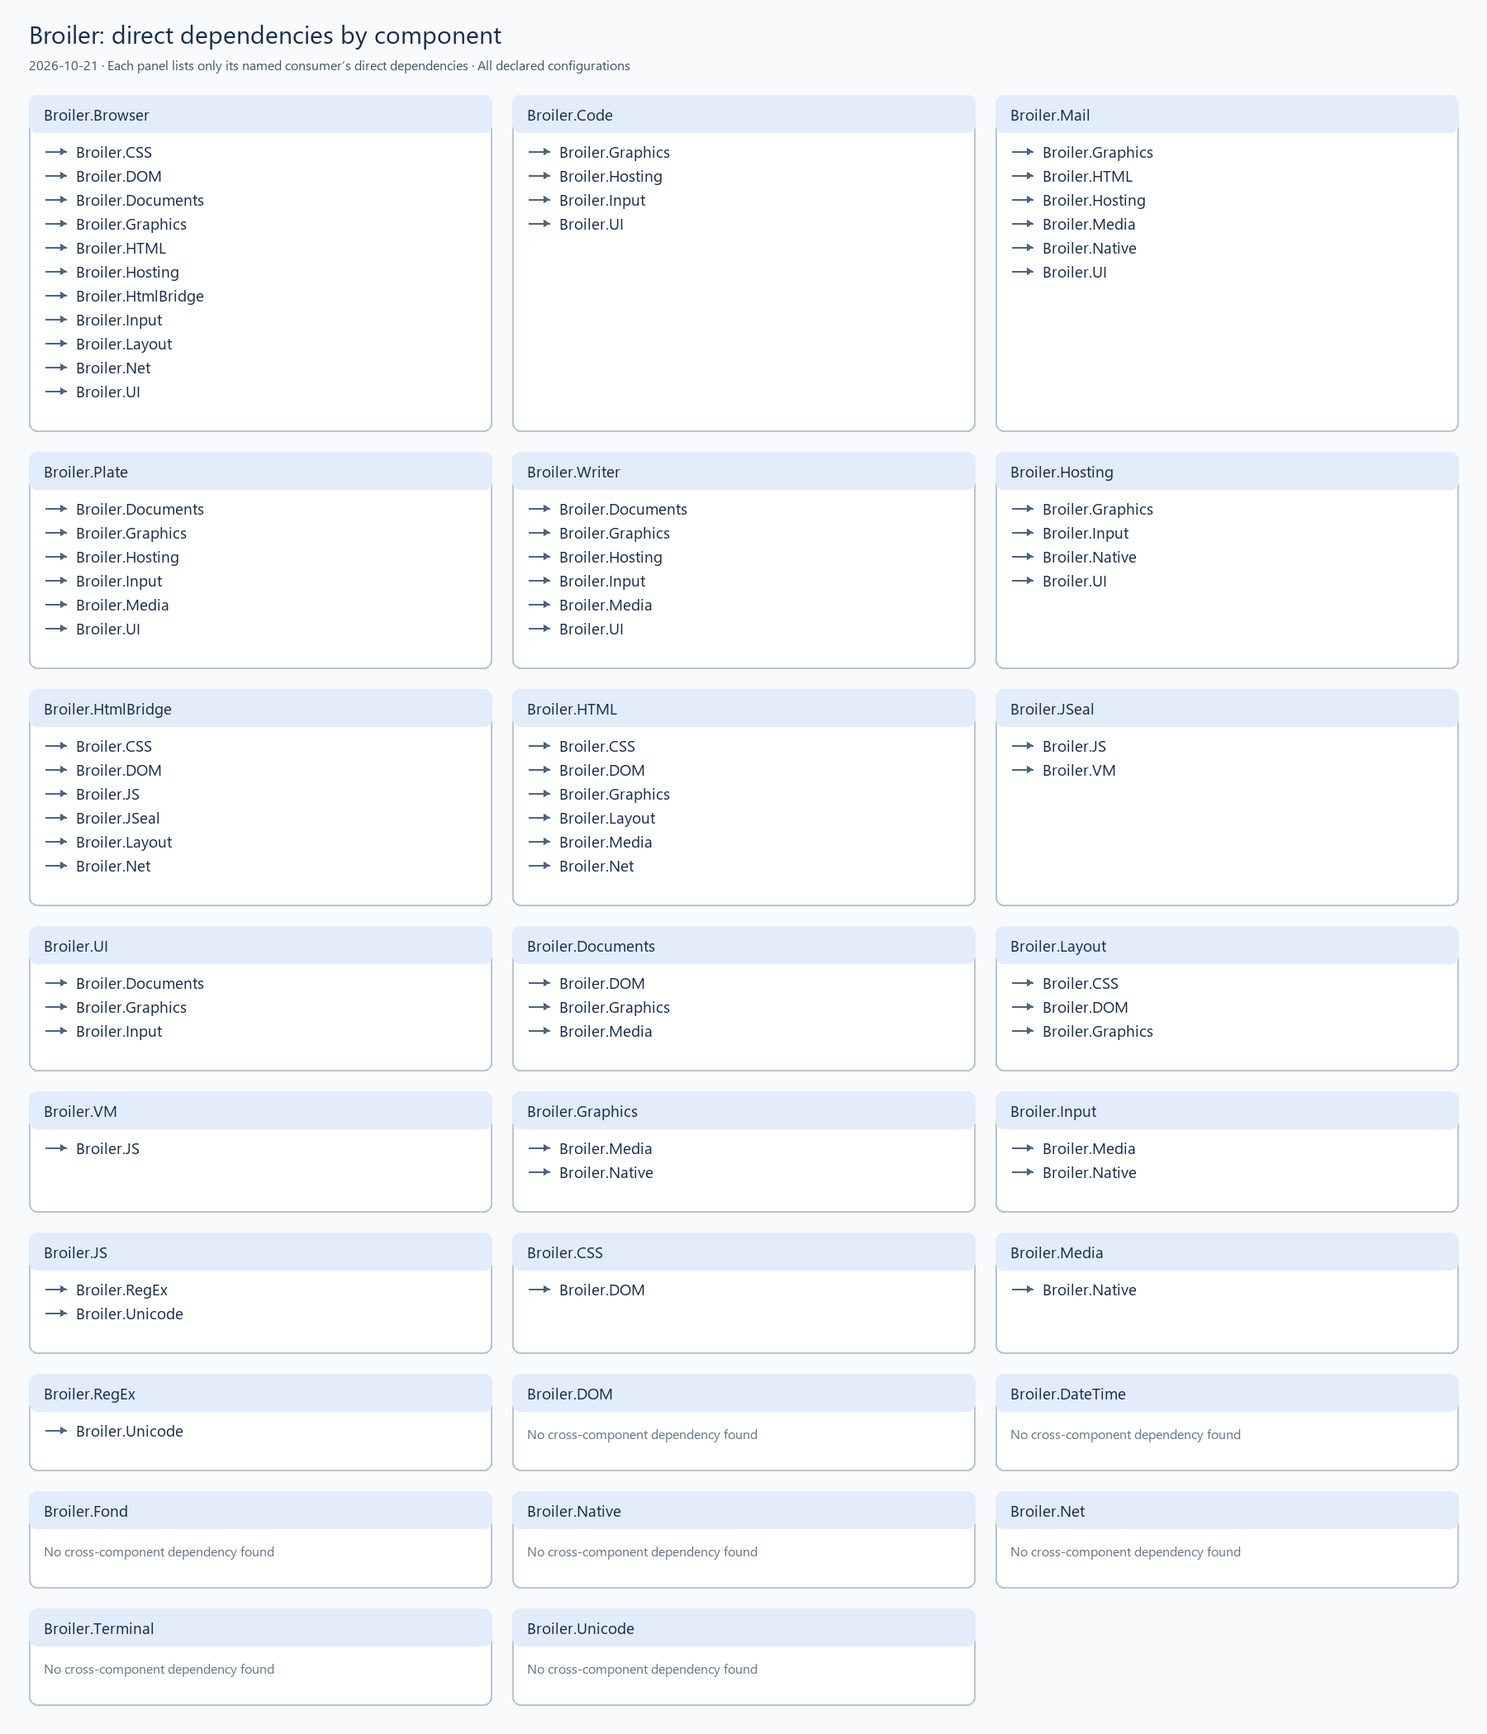
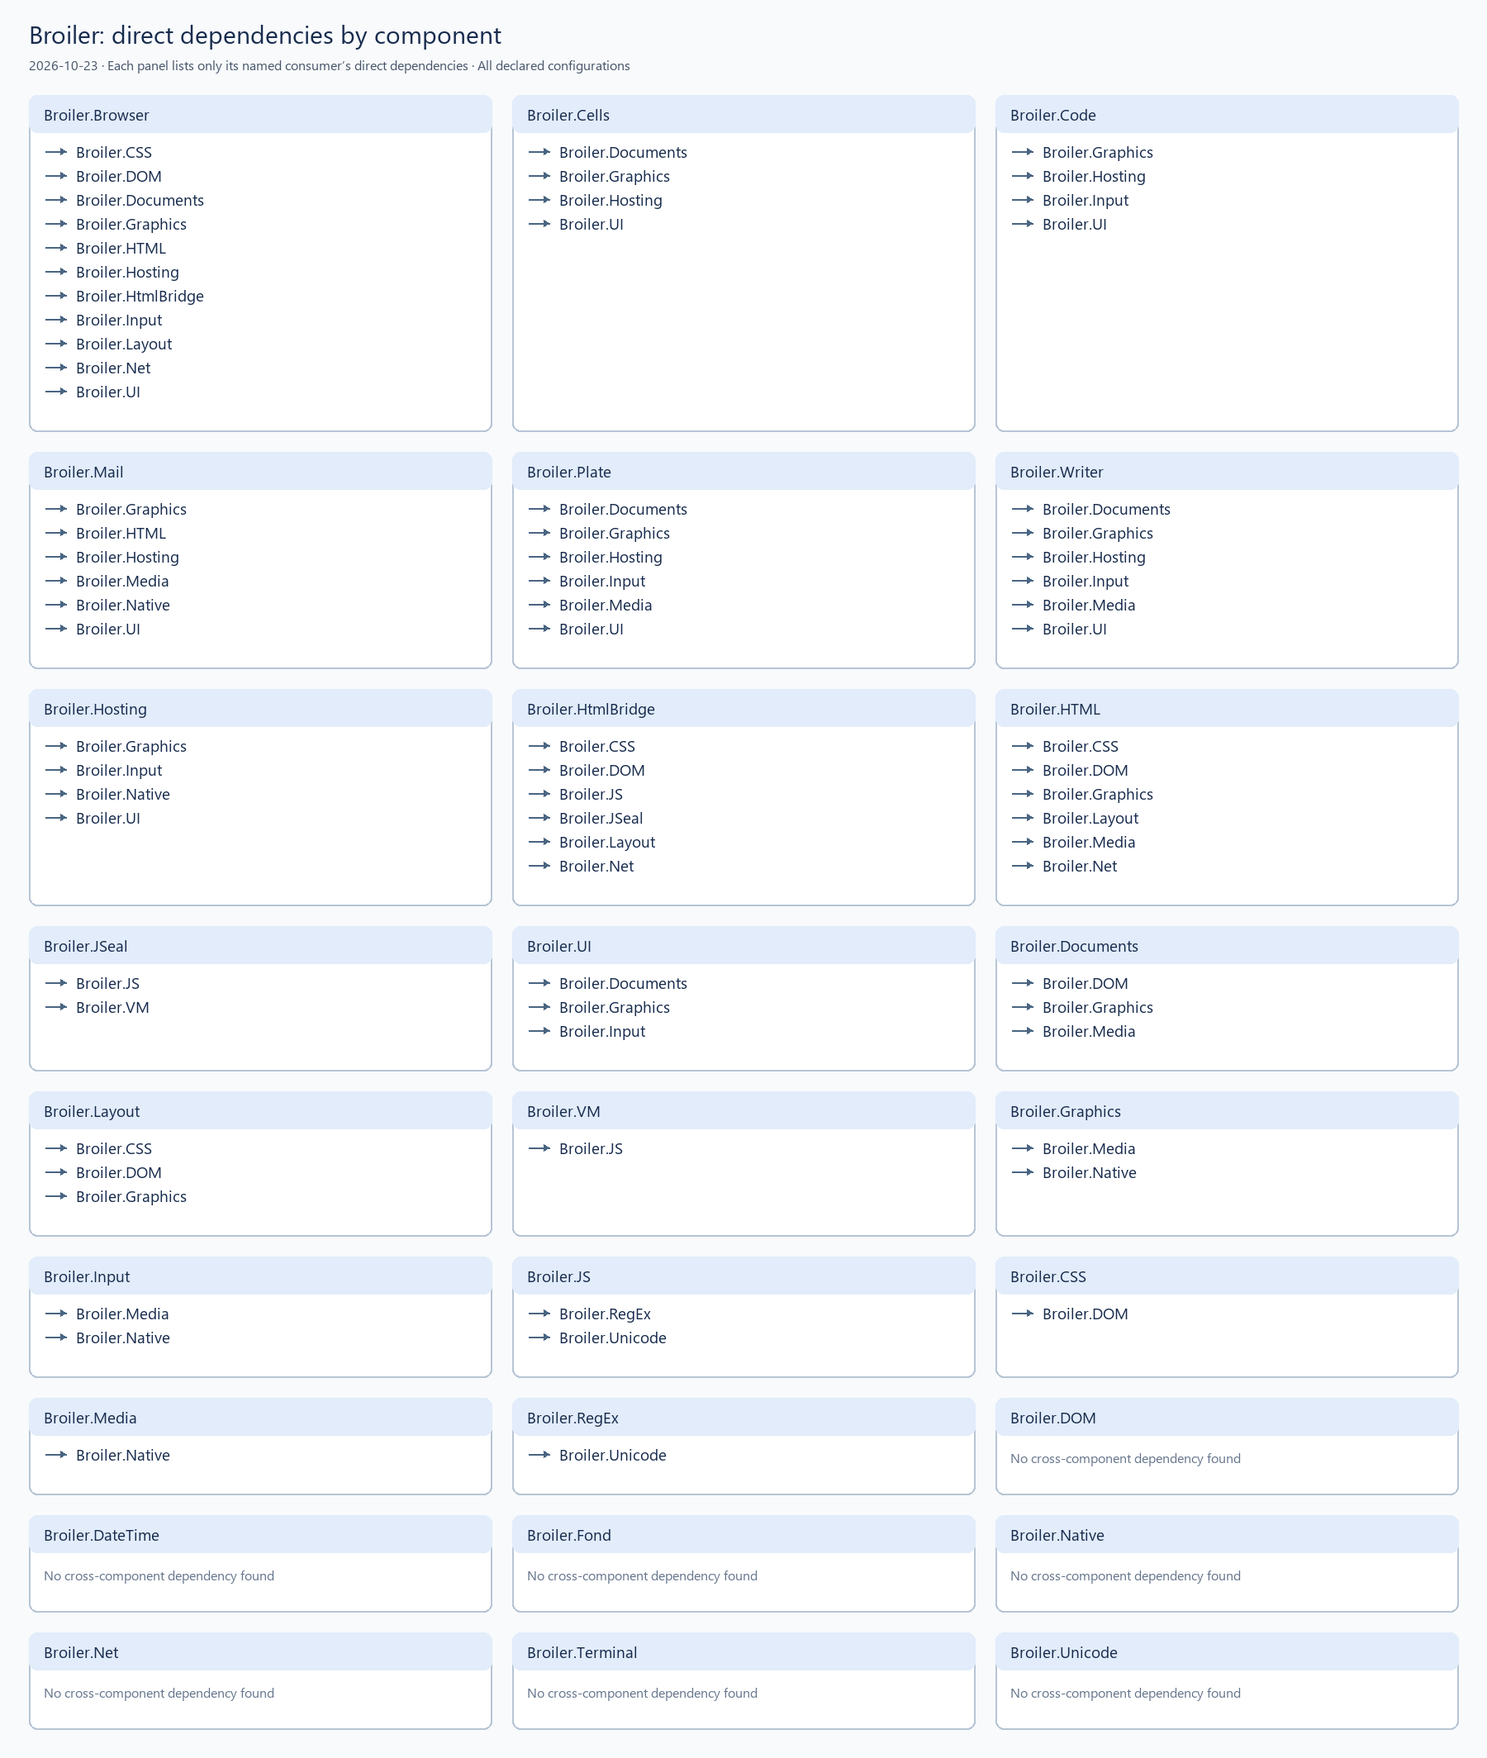
Updates by gemini 3.8 and opus 5.5

diff --git a/profile/docs/component-map.md b/profile/docs/component-map.md
@@ -2,7 +2,7 @@
 
 [← Back to Broiler Platform](https://github.com/Broiler-Platform)
 
-Updated from the aggregate checkout on **2026-10-21**. The aggregate pins 26 component repositories as Git submodules and also owns integration tools, tests and BOSS. It is not itself a node here.
+Updated from the aggregate checkout on **2026-10-23**. The aggregate pins 27 component repositories as Git submodules and also owns integration tools, tests and BOSS. It is not itself a node here.
 
 ## Reading the graph
 
@@ -17,101 +17,106 @@ The [machine-readable snapshot](component-map.json) records source commits, trac
 ```mermaid
 graph TD
     C0["Broiler.Browser"]
-    C2["Broiler.Code"]
-    C15["Broiler.Mail"]
-    C19["Broiler.Plate"]
-    C25["Broiler.Writer"]
-    C9["Broiler.Hosting"]
-    C10["Broiler.HtmlBridge"]
-    C8["Broiler.HTML"]
-    C13["Broiler.JSeal"]
-    C22["Broiler.UI"]
-    C5["Broiler.Documents"]
-    C14["Broiler.Layout"]
-    C24["Broiler.VM"]
-    C7["Broiler.Graphics"]
-    C11["Broiler.Input"]
-    C12["Broiler.JS"]
+    C2["Broiler.Cells"]
+    C3["Broiler.Code"]
+    C16["Broiler.Mail"]
+    C20["Broiler.Plate"]
+    C26["Broiler.Writer"]
+    C10["Broiler.Hosting"]
+    C11["Broiler.HtmlBridge"]
+    C9["Broiler.HTML"]
+    C14["Broiler.JSeal"]
+    C23["Broiler.UI"]
+    C6["Broiler.Documents"]
+    C15["Broiler.Layout"]
+    C25["Broiler.VM"]
+    C8["Broiler.Graphics"]
+    C12["Broiler.Input"]
+    C13["Broiler.JS"]
     C1["Broiler.CSS"]
-    C16["Broiler.Media"]
-    C20["Broiler.RegEx"]
-    C3["Broiler.DOM"]
-    C4["Broiler.DateTime"]
-    C6["Broiler.Fond"]
-    C17["Broiler.Native"]
-    C18["Broiler.Net"]
-    C21["Broiler.Terminal"]
-    C23["Broiler.Unicode"]
+    C17["Broiler.Media"]
+    C21["Broiler.RegEx"]
+    C4["Broiler.DOM"]
+    C5["Broiler.DateTime"]
+    C7["Broiler.Fond"]
+    C18["Broiler.Native"]
+    C19["Broiler.Net"]
+    C22["Broiler.Terminal"]
+    C24["Broiler.Unicode"]
     C0 --> C1
-    C0 --> C3
-    C0 --> C5
-    C0 --> C7
+    C0 --> C4
+    C0 --> C6
     C0 --> C8
     C0 --> C9
     C0 --> C10
     C0 --> C11
-    C0 --> C14
-    C0 --> C18
-    C0 --> C22
-    C2 --> C7
-    C2 --> C9
-    C2 --> C11
-    C2 --> C22
-    C15 --> C7
-    C15 --> C8
-    C15 --> C9
-    C15 --> C16
-    C15 --> C17
-    C15 --> C22
-    C19 --> C5
-    C19 --> C7
-    C19 --> C9
-    C19 --> C11
-    C19 --> C16
-    C19 --> C22
-    C25 --> C5
-    C25 --> C7
-    C25 --> C9
-    C25 --> C11
-    C25 --> C16
-    C25 --> C22
-    C9 --> C7
-    C9 --> C11
-    C9 --> C17
-    C9 --> C22
-    C10 --> C1
-    C10 --> C3
-    C10 --> C12
-    C10 --> C13
-    C10 --> C14
-    C10 --> C18
-    C8 --> C1
-    C8 --> C3
-    C8 --> C7
-    C8 --> C14
-    C8 --> C16
-    C8 --> C18
-    C13 --> C12
-    C13 --> C24
-    C22 --> C5
-    C22 --> C7
-    C22 --> C11
-    C5 --> C3
-    C5 --> C7
-    C5 --> C16
-    C14 --> C1
-    C14 --> C3
-    C14 --> C7
-    C24 --> C12
-    C7 --> C16
-    C7 --> C17
-    C11 --> C16
-    C11 --> C17
-    C12 --> C20
-    C12 --> C23
-    C1 --> C3
+    C0 --> C12
+    C0 --> C15
+    C0 --> C19
+    C0 --> C23
+    C2 --> C6
+    C2 --> C8
+    C2 --> C10
+    C2 --> C23
+    C3 --> C8
+    C3 --> C10
+    C3 --> C12
+    C3 --> C23
+    C16 --> C8
+    C16 --> C9
+    C16 --> C10
     C16 --> C17
+    C16 --> C18
+    C16 --> C23
+    C20 --> C6
+    C20 --> C8
+    C20 --> C10
+    C20 --> C12
+    C20 --> C17
     C20 --> C23
+    C26 --> C6
+    C26 --> C8
+    C26 --> C10
+    C26 --> C12
+    C26 --> C17
+    C26 --> C23
+    C10 --> C8
+    C10 --> C12
+    C10 --> C18
+    C10 --> C23
+    C11 --> C1
+    C11 --> C4
+    C11 --> C13
+    C11 --> C14
+    C11 --> C15
+    C11 --> C19
+    C9 --> C1
+    C9 --> C4
+    C9 --> C8
+    C9 --> C15
+    C9 --> C17
+    C9 --> C19
+    C14 --> C13
+    C14 --> C25
+    C23 --> C6
+    C23 --> C8
+    C23 --> C12
+    C6 --> C4
+    C6 --> C8
+    C6 --> C17
+    C15 --> C1
+    C15 --> C4
+    C15 --> C8
+    C25 --> C13
+    C8 --> C17
+    C8 --> C18
+    C12 --> C17
+    C12 --> C18
+    C13 --> C21
+    C13 --> C24
+    C1 --> C4
+    C17 --> C18
+    C21 --> C24
 ```
 
 ## Dependencies in both directions
@@ -121,19 +126,20 @@ Levels are computed as the longest dependency path to a leaf. An isolated node m
 | Level | Component | Depends on | Used by |
 |---:|---|---|---|
 | 6 | **Broiler.Browser** | `Broiler.CSS`, `Broiler.DOM`, `Broiler.Documents`, `Broiler.Graphics`, `Broiler.HTML`, `Broiler.Hosting`, `Broiler.HtmlBridge`, `Broiler.Input`, `Broiler.Layout`, `Broiler.Net`, `Broiler.UI` | — |
+| 6 | **Broiler.Cells** | `Broiler.Documents`, `Broiler.Graphics`, `Broiler.Hosting`, `Broiler.UI` | — |
 | 6 | **Broiler.Code** | `Broiler.Graphics`, `Broiler.Hosting`, `Broiler.Input`, `Broiler.UI` | — |
 | 6 | **Broiler.Mail** | `Broiler.Graphics`, `Broiler.HTML`, `Broiler.Hosting`, `Broiler.Media`, `Broiler.Native`, `Broiler.UI` | — |
 | 6 | **Broiler.Plate** | `Broiler.Documents`, `Broiler.Graphics`, `Broiler.Hosting`, `Broiler.Input`, `Broiler.Media`, `Broiler.UI` | — |
 | 6 | **Broiler.Writer** | `Broiler.Documents`, `Broiler.Graphics`, `Broiler.Hosting`, `Broiler.Input`, `Broiler.Media`, `Broiler.UI` | — |
-| 5 | **Broiler.Hosting** | `Broiler.Graphics`, `Broiler.Input`, `Broiler.Native`, `Broiler.UI` | `Broiler.Browser`, `Broiler.Code`, `Broiler.Mail`, `Broiler.Plate`, `Broiler.Writer` |
+| 5 | **Broiler.Hosting** | `Broiler.Graphics`, `Broiler.Input`, `Broiler.Native`, `Broiler.UI` | `Broiler.Browser`, `Broiler.Cells`, `Broiler.Code`, `Broiler.Mail`, `Broiler.Plate`, `Broiler.Writer` |
 | 5 | **Broiler.HtmlBridge** | `Broiler.CSS`, `Broiler.DOM`, `Broiler.JS`, `Broiler.JSeal`, `Broiler.Layout`, `Broiler.Net` | `Broiler.Browser` |
 | 4 | **Broiler.HTML** | `Broiler.CSS`, `Broiler.DOM`, `Broiler.Graphics`, `Broiler.Layout`, `Broiler.Media`, `Broiler.Net` | `Broiler.Browser`, `Broiler.Mail` |
 | 4 | **Broiler.JSeal** | `Broiler.JS`, `Broiler.VM` | `Broiler.HtmlBridge` |
-| 4 | **Broiler.UI** | `Broiler.Documents`, `Broiler.Graphics`, `Broiler.Input` | `Broiler.Browser`, `Broiler.Code`, `Broiler.Hosting`, `Broiler.Mail`, `Broiler.Plate`, `Broiler.Writer` |
-| 3 | **Broiler.Documents** | `Broiler.DOM`, `Broiler.Graphics`, `Broiler.Media` | `Broiler.Browser`, `Broiler.Plate`, `Broiler.UI`, `Broiler.Writer` |
+| 4 | **Broiler.UI** | `Broiler.Documents`, `Broiler.Graphics`, `Broiler.Input` | `Broiler.Browser`, `Broiler.Cells`, `Broiler.Code`, `Broiler.Hosting`, `Broiler.Mail`, `Broiler.Plate`, `Broiler.Writer` |
+| 3 | **Broiler.Documents** | `Broiler.DOM`, `Broiler.Graphics`, `Broiler.Media` | `Broiler.Browser`, `Broiler.Cells`, `Broiler.Plate`, `Broiler.UI`, `Broiler.Writer` |
 | 3 | **Broiler.Layout** | `Broiler.CSS`, `Broiler.DOM`, `Broiler.Graphics` | `Broiler.Browser`, `Broiler.HTML`, `Broiler.HtmlBridge` |
 | 3 | **Broiler.VM** | `Broiler.JS` | `Broiler.JSeal` |
-| 2 | **Broiler.Graphics** | `Broiler.Media`, `Broiler.Native` | `Broiler.Browser`, `Broiler.Code`, `Broiler.Documents`, `Broiler.HTML`, `Broiler.Hosting`, `Broiler.Layout`, `Broiler.Mail`, `Broiler.Plate`, `Broiler.UI`, `Broiler.Writer` |
+| 2 | **Broiler.Graphics** | `Broiler.Media`, `Broiler.Native` | `Broiler.Browser`, `Broiler.Cells`, `Broiler.Code`, `Broiler.Documents`, `Broiler.HTML`, `Broiler.Hosting`, `Broiler.Layout`, `Broiler.Mail`, `Broiler.Plate`, `Broiler.UI`, `Broiler.Writer` |
 | 2 | **Broiler.Input** | `Broiler.Media`, `Broiler.Native` | `Broiler.Browser`, `Broiler.Code`, `Broiler.Hosting`, `Broiler.Plate`, `Broiler.UI`, `Broiler.Writer` |
 | 2 | **Broiler.JS** | `Broiler.RegEx`, `Broiler.Unicode` | `Broiler.HtmlBridge`, `Broiler.JSeal`, `Broiler.VM` |
 | 1 | **Broiler.CSS** | `Broiler.DOM` | `Broiler.Browser`, `Broiler.HTML`, `Broiler.HtmlBridge`, `Broiler.Layout` |
@@ -153,15 +159,15 @@ Counts are distinct component edges, not package or assembly counts.
 
 | Component | Consumers (fan-in) | Dependencies (fan-out) |
 |---|---:|---:|
-| Broiler.Graphics | 10 | 2 |
+| Broiler.Graphics | 11 | 2 |
 | Broiler.Media | 7 | 1 |
+| Broiler.UI | 7 | 3 |
 | Broiler.DOM | 6 | 0 |
+| Broiler.Hosting | 6 | 4 |
 | Broiler.Input | 6 | 2 |
-| Broiler.UI | 6 | 3 |
-| Broiler.Hosting | 5 | 4 |
+| Broiler.Documents | 5 | 3 |
 | Broiler.Native | 5 | 0 |
 | Broiler.CSS | 4 | 1 |
-| Broiler.Documents | 4 | 3 |
 | Broiler.JS | 3 | 2 |
 | Broiler.Layout | 3 | 3 |
 | Broiler.Net | 3 | 0 |
@@ -172,6 +178,7 @@ Counts are distinct component edges, not package or assembly counts.
 | Broiler.RegEx | 1 | 1 |
 | Broiler.VM | 1 | 1 |
 | Broiler.Browser | 0 | 11 |
+| Broiler.Cells | 0 | 4 |
 | Broiler.Code | 0 | 4 |
 | Broiler.DateTime | 0 | 0 |
 | Broiler.Fond | 0 | 0 |

diff --git a/profile/README.md b/profile/README.md
@@ -27,21 +27,21 @@ Broiler is **not** a wrapper around an existing browser or office stack. It is a
 |-----------|--------|
 | Standards verification | Test262, WPT and reftest tooling; current figures require revision-linked evidence ([status](https://github.com/Broiler-Platform/.github/blob/main/profile/docs/status.md)) |
 | Supported Platforms | Windows, Linux, Android, WebAssembly |
-| Applications | Browser, Writer, Code, Plate, Mail |
+| Applications | Browser, Writer, Code, Plate, Mail, Cells |
 | Reference Deployment | BOSS |
 | Document Formats | RTF, HTML, Markdown, DOCX, ODT, CSV, PDF *(preview subset)* |
 | Native Compilation | Writer *(win-x64, linux-x64)* and Plate *(win-x64)* publish paths; Mail *(win-x64, win-arm64)* validation packaging uses **NativeAOT** |
-| Repository Layout | 26 component submodules — 5 primary applications, shared libraries and projects under development ([Component Map](https://github.com/Broiler-Platform/.github/blob/main/profile/docs/component-map.md)) |
+| Repository Layout | 27 component submodules — 6 applications, shared libraries and projects under development ([Component Map](https://github.com/Broiler-Platform/.github/blob/main/profile/docs/component-map.md)) |
 
 ---
 
 ## Architecture at a Glance
 
-The aggregate checkout pins component repositories as Git submodules and owns integration tooling, tests and BOSS. Components consume one another through NuGet packages, with project references within each repository. The generated map contains **26 components and 70 declared dependency edges**, including optional and conditional paths, as of **21 October 2026**.
+The aggregate checkout pins component repositories as Git submodules and owns integration tooling, tests and BOSS. Components consume one another through NuGet packages, with project references within each repository. The generated map contains **27 components and 74 declared dependency edges**, including optional and conditional paths, as of **23 October 2026**.
 
 ```mermaid
 flowchart TD
-    Apps[Browser / Writer / Code / Plate / Mail] --> Hosting[Hosting and UI]
+    Apps[Browser / Writer / Code / Plate / Mail / Cells] --> Hosting[Hosting and UI]
     Apps --> Web[HtmlBridge / HTML / CSS / DOM / Layout]
     Hosting --> Documents[Documents and pagination]
     Web --> Engines[JSEAL providers: Broiler.JS and Broiler.VM]
@@ -65,6 +65,7 @@ The full wiring — who depends on whom, in both directions — is in the
 | **Broiler Code** | Code editor with C# language services and a human-review workspace | Windows, Linux |
 | **Broiler Plate** | Read-only viewer — the smallest honest demonstration of what the platform can already read | Windows |
 | **Broiler Mail** | Mail client — Single-account reader with SMTP composition and HTML preview work; provider acceptance and renderer isolation remain open | Windows, Android; Linux placeholder |
+| **Broiler Cells** | Minimal spreadsheet — 100 × 100 grid with A1-style addresses, in-place editing, row/column selection and resizing, CSV open/save | Windows |
 | **BOSS** | Broiler Office Standalone Server — hosts the WebAssembly Writer via ASP.NET Core | self-hosted |
 
 ---
@@ -115,6 +116,7 @@ Each application releases on its own schedule, from its own repository:
 | **Broiler Writer** | [Releases](https://github.com/Broiler-Platform/Broiler.Writer/releases) | `win-x64` and `linux-x64`, self-contained *(NativeAOT)* or framework-dependent · Android `.apk` / `.aab` |
 | **Broiler Plate** | [Releases](https://github.com/Broiler-Platform/Broiler.Plate/releases) | `win-x64` *(NativeAOT)* |
 | **Broiler Code** | build from [source](https://github.com/Broiler-Platform/Broiler.Code) | no release yet |
+| **Broiler Cells** | build from [source](https://github.com/Broiler-Platform/Broiler.Cells) | no release yet |
 | **Broiler Mail** | [Source and workflows](https://github.com/Broiler-Platform/Broiler.Mail) | Windows x64/ARM64 and Android validation packaging; unsigned builds and draft releases |
 
 Then:

diff --git a/profile/docs/architecture.md b/profile/docs/architecture.md
@@ -2,13 +2,13 @@
 
 [← Back to Broiler Platform](https://github.com/Broiler-Platform)
 
-Updated against the aggregate checkout on **21 October 2026**.
+Updated against the aggregate checkout on **23 October 2026**.
 
 ## Repository and build model
 
-The [Broiler aggregate](https://github.com/Broiler-Platform/Broiler) pins 26 component repositories as Git submodules. It also owns cross-component integration, validation tools and the Broiler Office Standalone Server (BOSS). Component repositories own their application or library code, solutions, tests and workflows.
+The [Broiler aggregate](https://github.com/Broiler-Platform/Broiler) pins 27 component repositories as Git submodules. It also owns cross-component integration, validation tools and the Broiler Office Standalone Server (BOSS). Component repositories own their application or library code, solutions, tests and workflows.
 
-Cross-component product dependencies in the current scan use NuGet package references; projects within a component use project references. The [Component Map](component-map.md) is generated from component-owned tracked product project files and includes optional and conditional references. Its 70 component edges form an acyclic graph. This declaration graph does not establish that every package has been published or that every configuration has passed validation.
+Cross-component product dependencies in the current scan use NuGet package references; projects within a component use project references. The [Component Map](component-map.md) is generated from component-owned tracked product project files and includes optional and conditional references. Its 74 component edges form an acyclic graph. This declaration graph does not establish that every package has been published or that every configuration has passed validation.
 
 ## Shared stacks
 
@@ -22,7 +22,7 @@ flowchart TD
     Seam --> VM[Broiler.VM provider: in progress and unaccepted]
     Bridge --> JS
     HTML --> Layout[CSS / DOM / Layout]
-    Writer[Writer / Plate] --> UI[UI and Documents]
+    Writer[Writer / Plate / Cells] --> UI[UI and Documents]
     Code[Code] --> UI
     Browser --> UI
     UI --> Base[Graphics / Input / Media / Native]
@@ -44,6 +44,7 @@ Broiler.Hosting provides shared operating-system integration, including windowin
 | Code | Head | Head | — | — |
 | Plate | Head | — | — | — |
 | Mail | Head | Placeholder; no interactive window | Head | — |
+| Cells | Head | — | — | — |
 
 A head's presence is implementation evidence, not platform acceptance. Android physical-device and accessibility validation remains component-specific. Broiler.Fond is an additional application under development, with a finance kernel and synthetic protocol fixtures; it is not a supported banking client.
 

diff --git a/profile/docs/status.md b/profile/docs/status.md
@@ -2,14 +2,14 @@
 
 [← Back to Broiler Platform](https://github.com/Broiler-Platform)
 
-Broiler is under active development and is **not yet intended for production use**. This summary was reconciled with the aggregate checkout on **21 October 2026**; implementation, test evidence and release acceptance are separate claims.
+Broiler is under active development and is **not yet intended for production use**. This summary was reconciled with the aggregate checkout on **23 October 2026**; implementation, test evidence and release acceptance are separate claims.
 
 ## Platform snapshot
 
 | Area | Current repository evidence |
 |---|---|
-| Repository composition | 26 component submodules; 70 declared cross-component product dependency edges |
-| Applications | Browser, Writer, Code, Plate and Mail; Fond under development |
+| Repository composition | 27 component submodules; 74 declared cross-component product dependency edges |
+| Applications | Browser, Writer, Code, Plate, Mail and Cells; Fond under development |
 | Application targets | Windows, Linux, Android; Writer also has a WebAssembly head |
 | Mail targets | Windows and Android; Linux remains a placeholder |
 | Self-hosting | BOSS serves the WebAssembly Writer through ASP.NET Core |
@@ -27,6 +27,7 @@ The aggregate [roadmap](https://github.com/Broiler-Platform/Broiler/blob/main/do
 
 - Shared DOM, CSS, layout, HTML rendering, JavaScript, graphics, input, media, document and UI components exist, with component-owned validation suites.
 - Code includes workspace and C# language-service projects and content-based per-file human-review tooling.
+- Cells, the newest application, is a Windows-only minimal spreadsheet: a 100 × 100 grid with A1-style addresses, in-place editing, row/column selection and resizing, and RFC 4180 CSV open/save through `Broiler.Documents.Csv`. Its three-version roadmap is complete; it has no release and no human-review record.
 - Mail has single-account reading, SMTP composition and HTML preview work. Provider acceptance and renderer process isolation remain release gates; generated packages are unsigned validation builds.
 - Documents provides explicit codec composition. PDF is a subset implementation with optional font and image providers; package generation does not certify PDF conformance or enable every application feature.
 - Printing work includes pagination and PDF spool primitives; the aggregate printing roadmap retains platform and application delivery gates.

diff --git a/profile/docs/native-compilation.md b/profile/docs/native-compilation.md
@@ -2,7 +2,7 @@
 
 [← Back to Broiler Platform](https://github.com/Broiler-Platform)
 
-Updated against the aggregate checkout on **21 October 2026**.
+Updated against the aggregate checkout on **23 October 2026**.
 
 NativeAOT publishes managed .NET applications as native executables without requiring an installed .NET runtime. Deployment can still include operating-system libraries, content and other files; a publish setting alone does not prove a single-file distribution, artifact size, warning count or release acceptance.
 
